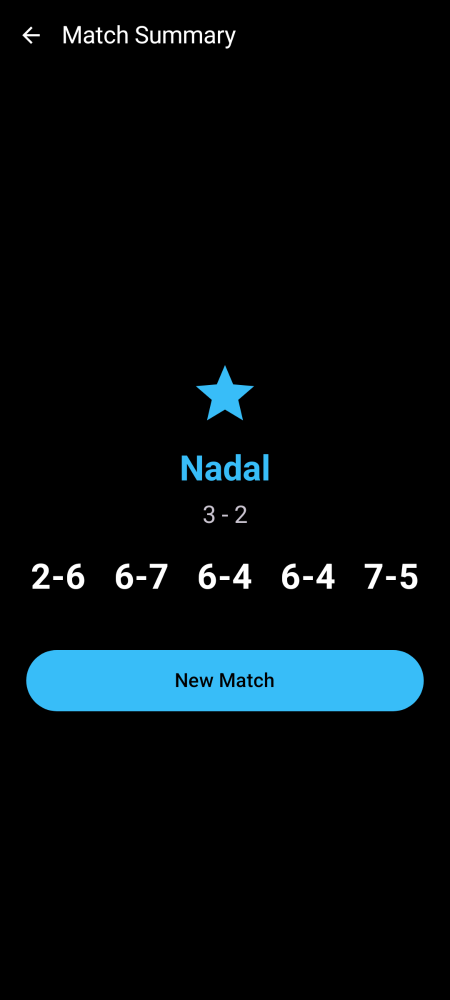
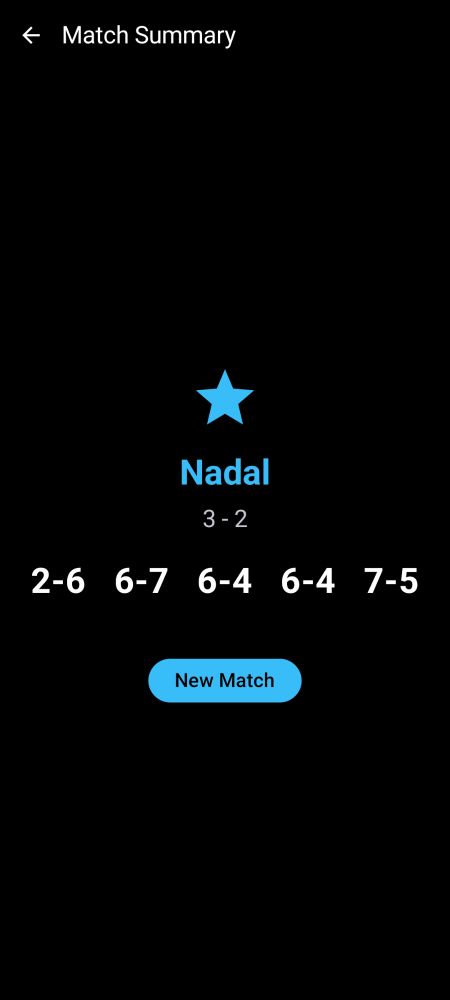
Fix button width in match summary

diff --git a/app/src/main/java/com/nuttyknot/tennisscoretracker/ui/summary/MatchSummaryScreen.kt b/app/src/main/java/com/nuttyknot/tennisscoretracker/ui/summary/MatchSummaryScreen.kt
@@ -5,7 +5,6 @@ import androidx.compose.foundation.layout.Column
 import androidx.compose.foundation.layout.PaddingValues
 import androidx.compose.foundation.layout.Spacer
 import androidx.compose.foundation.layout.fillMaxSize
-import androidx.compose.foundation.layout.fillMaxWidth
 import androidx.compose.foundation.layout.height
 import androidx.compose.foundation.layout.padding
 import androidx.compose.foundation.layout.size
@@ -122,7 +121,6 @@ internal fun MatchSummaryContent(
 
         Button(
             onClick = onNewMatch,
-            modifier = Modifier.fillMaxWidth().height(56.dp),
         ) {
             Text("New Match", fontSize = 18.sp)
         }
